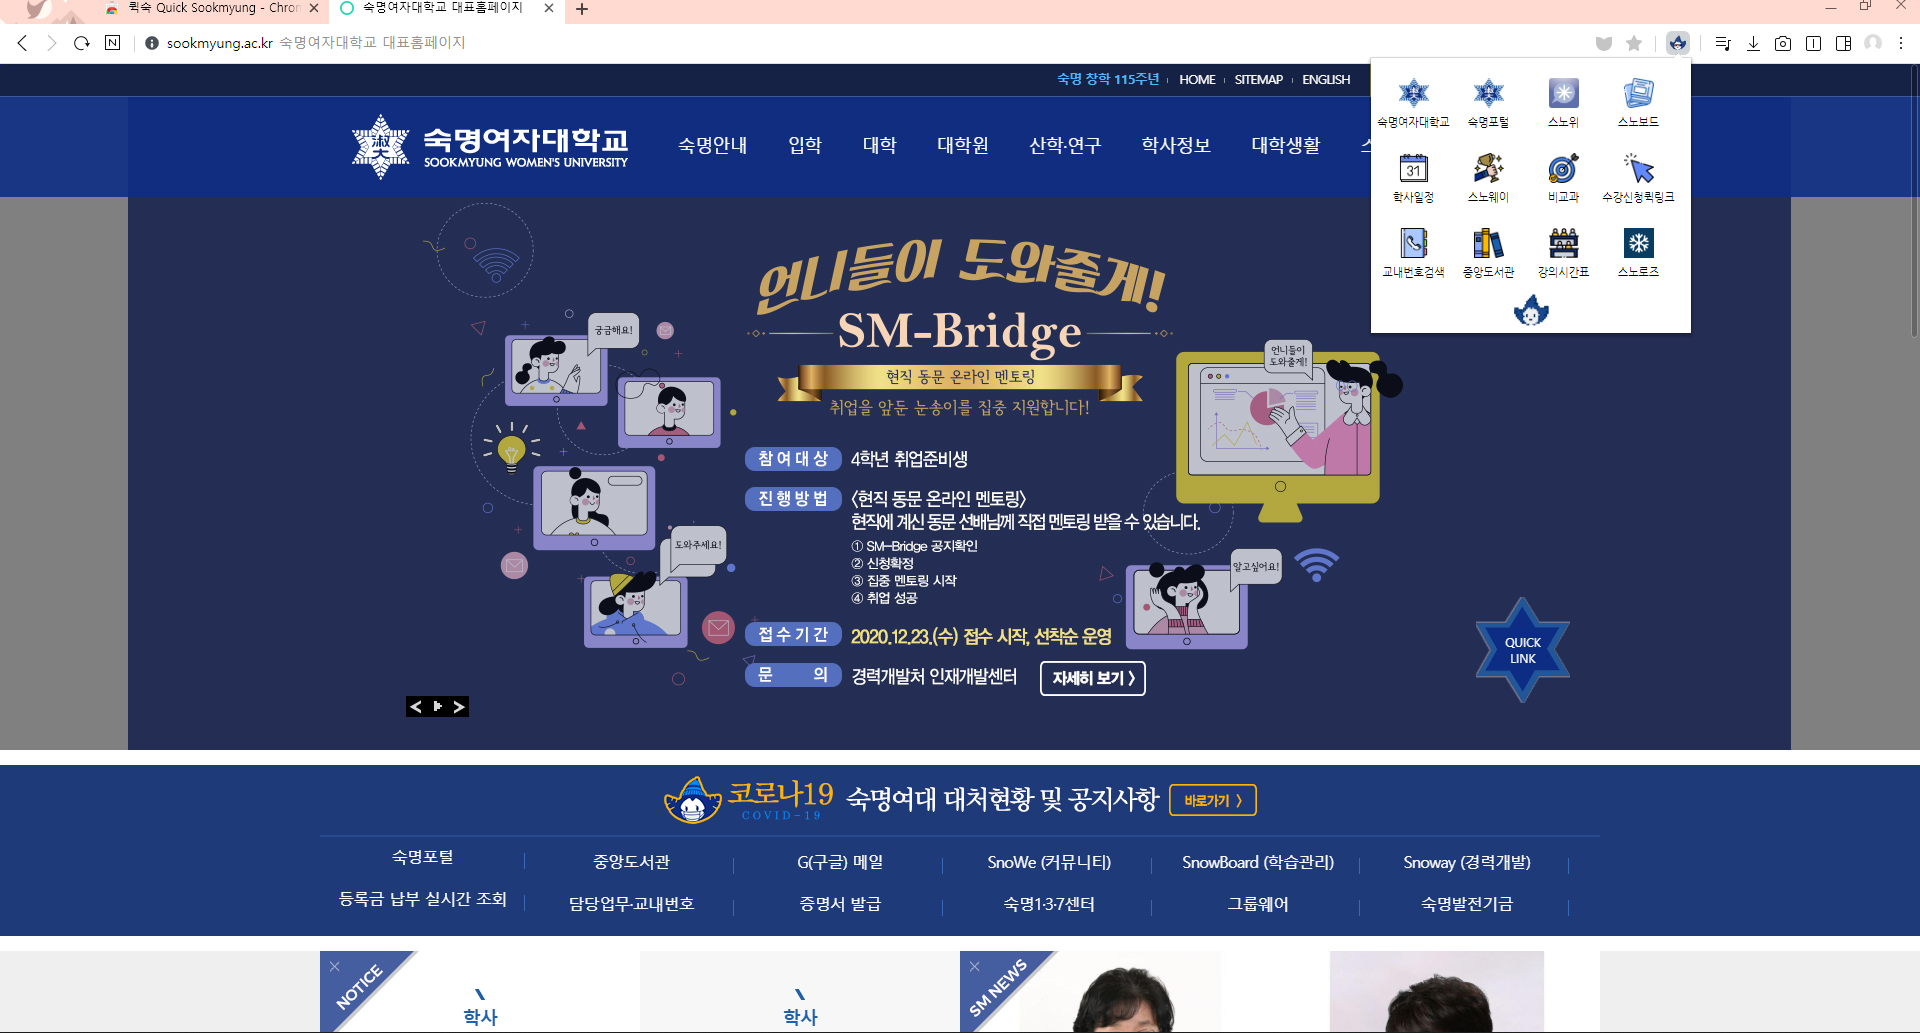
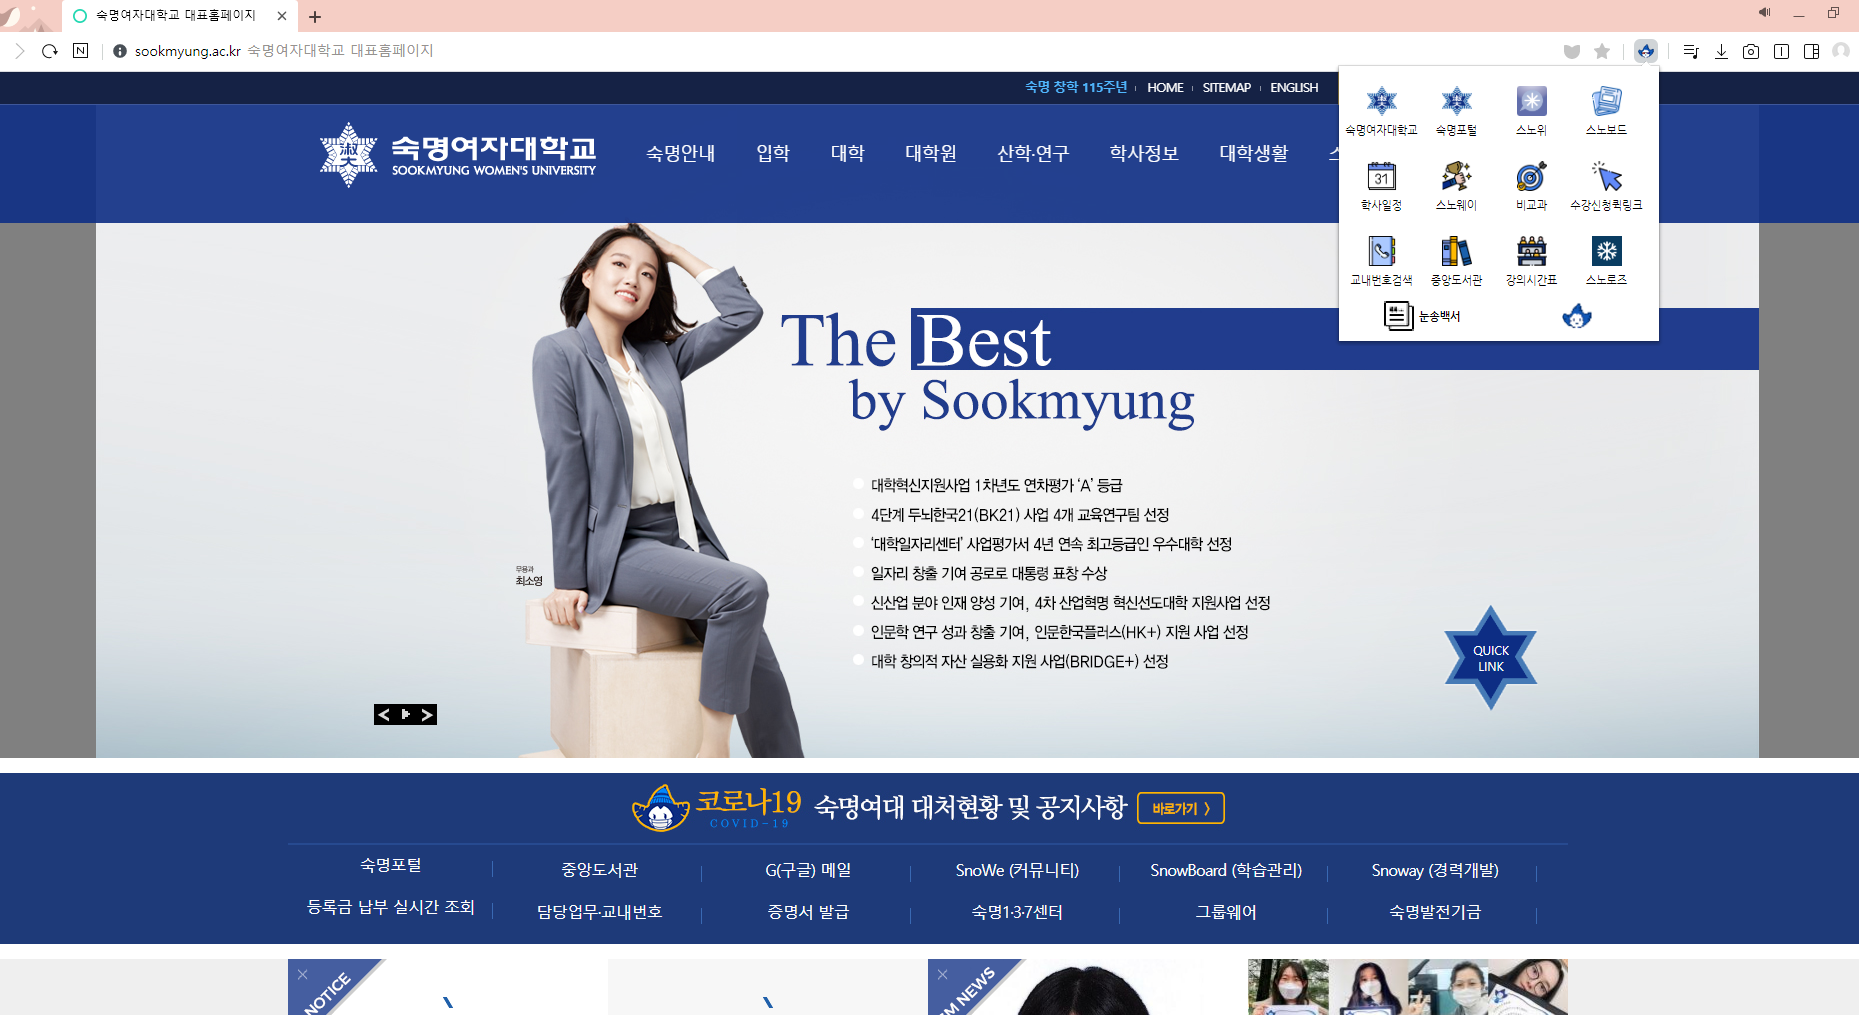
v1.3 Update

diff --git a/README.md b/README.md
@@ -5,8 +5,8 @@
 
 | browser | 버전 | 최근 업데이트일    |
 | ------- | ---- | ------------------ |
-| chrome  | v1.2 | 2021.01.20 |
-| whale   | v1.2 | 2021.01.20 |
+| chrome  | v1.3 | 2021.01.29(검토중) |
+| whale   | v1.3 | 2021.01.29(검토중) |
 
 **웨일브라우저**와 **크롬 브라우저**를 사용하는 **숙명인**들을 위해 확장앱을 만들었습니다.
 
@@ -38,7 +38,7 @@ Origin: 숙명여대 크롬 확장앱(퀵숙 Quick Sookmyung) - https://chrome.g
 
 숙명인들이 자주 사용하는 웹사이트를 모아두었습니다.
 
-총 12개의 사이트를 제공하며 제공 범위는 다음과 같습니다.
+총 13개의 사이트를 제공하며 제공 범위는 다음과 같습니다.
 
 - 숙명여자대학교 홈페이지
 - 숙명 포털
@@ -52,6 +52,6 @@ Origin: 숙명여대 크롬 확장앱(퀵숙 Quick Sookmyung) - https://chrome.g
 - 비교과프로그램
 - 중앙도서관
 - 강의시간표 조회
+- 눈송백서
 
-![Preview_chrome](./preview/chrome_screenshot.png)
 ![Preview_whale](./preview/whale_screenshot.png)
